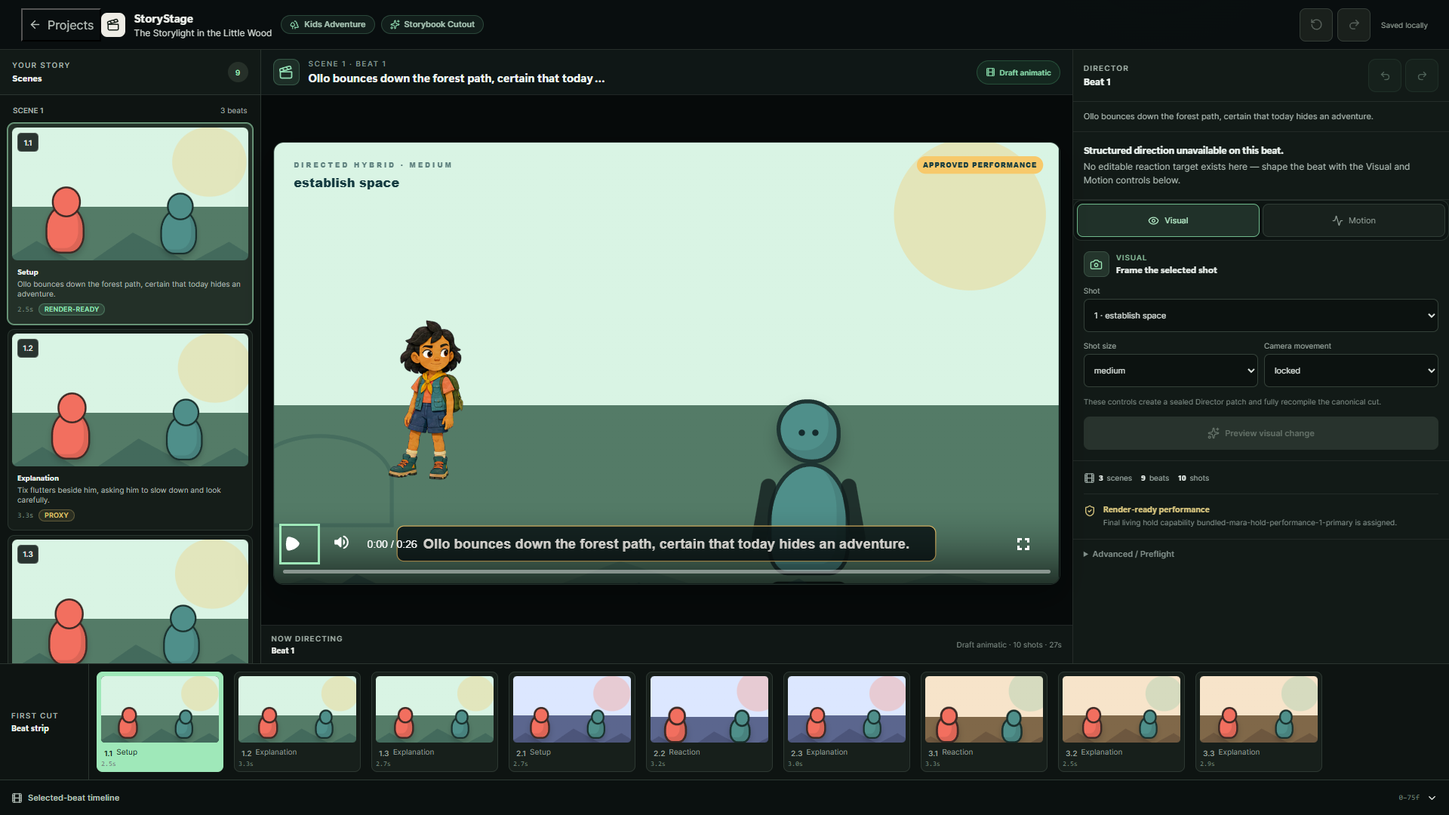
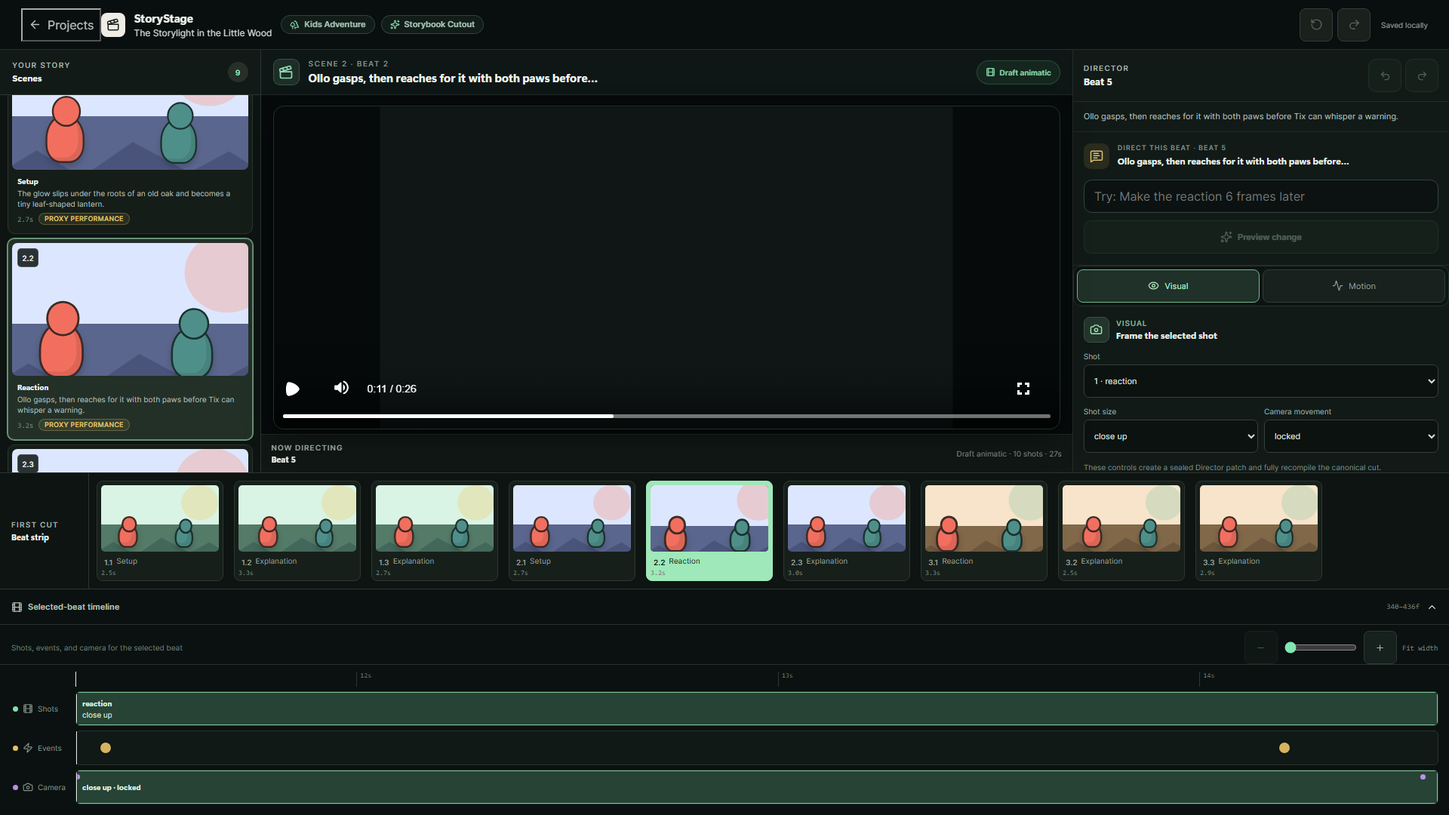
docs: Slice C corrections handback — Mara truth, zoom/player/browser proofs, refreshed screenshots

diff --git a/reports/agent-handoffs/2026-07-19-kimi-ui-slice-c-visual-polish/HANDOFF.md b/reports/agent-handoffs/2026-07-19-kimi-ui-slice-c-visual-polish/HANDOFF.md
@@ -1,85 +1,87 @@
-# [KIMI] UI Slice C handback — Director Studio visual polish
+# [KIMI] UI Slice C handback — Director Studio visual polish + corrections
 
-Task: `KIMI-UI-SLICE-C-VISUAL-POLISH` (inbox v10, START-NOW)
-Work branch: `agent/kimi-ui-slice-c-visual-polish`, from exact accepted integration base `2de764c27640657a97f90eef2c630ff171e9176f` (PR #15 merged into the provider-neutral Ollo lineage)
-Implementation commit: `206ff36`
+Task: `KIMI-UI-SLICE-C-VISUAL-POLISH` → `KIMI-UI-SLICE-C-CORRECTIONS` (inbox v10 → v12, START-NOW)
+Work branch: `agent/kimi-ui-slice-c-visual-polish`, from exact accepted integration base `2de764c27640657a97f90eef2c630ff171e9176f`
+Implementation commits: `206ff36` (Slice C polish), `1daf540` (v11/v12 corrections)
 Visual references: `Generated image 1.png` (Director Studio mockup, primary), `Generated image 2.png` (Create-flow mockup)
 
-## What was polished
+## Slice C (accepted scope) — what was polished
 
-Real-data visual polish of the accepted Director Studio shell only — no new, fake, or implied capability.
+Real-data visual polish of the accepted Director Studio shell: production header with real grammar/art-direction tag pills; scene-rail per-beat resolved durations and honest capability chips; framed dominant Player; pill tabs and mint primary-action hierarchy; beat-strip durations; selected-beat timeline with tools row, zoom, whole-second ruler, colored lane dots; wide-desktop sizing; reduced-motion guards. Details in the original commit `206ff36`.
 
-- **Production header.** Grammar + sealed art-direction tag pills beside the brand (real `project.grammar` / `project.artDirectionSelection.optionId`). Topbar grid extended to a four-zone layout (back / brand / tags / actions) at the direction-screen specificity so nothing wraps or overlaps; tags hide below 1040px.
-- **Scene rail.** Every beat card now carries its real resolved duration (timing solution ÷ fps) and an honest capability chip — `Render-ready` (mint) only when every performance requirement for that beat resolved to a supported executable program, otherwise `Proxy` (amber).
-- **Player.** Framed canvas: border, radius, shadow; 16:9 preserved; native transport untouched.
-- **Director inspector.** Pill-tab treatment for Visual/Motion; mint primary-action hierarchy on the real actions (`Preview change`, `Preview visual change`, `Apply and replay this beat`) with matching focus rings; existing grouping/rhythm retained.
-- **Beat strip.** Real resolved durations under every card; wide-desktop sizing so cards stay readable at 1600/1920.
-- **Selected-beat timeline.** Tools row with a **real zoom control** (visual rescale + horizontal scroll only; never alters timing data), a whole-second ruler computed from the episode fps, colored lane dots (Shots green / Events amber / Camera purple), scrollable lanes. Still collapsed by default; still only real Shots, Events, and Camera data; event markers still seek to resolved frames.
-- **States/responsive/a11y.** Selection/hover/focus/disabled/unavailable treatments kept consistent; no horizontal overflow at 1440/1600/1920 (measured 1440=1440, 1600=1600, 1920=1920); reduced-motion guards added for the new transitions; existing focus-visible rings preserved and extended to the mint actions.
+## Corrections (inbox v11/v12, commit 1daf540)
 
-## Mockup-parity audit
+**P1 — Mara capability truth.** Ordinary Ollo & Friends drafts previously compiled against `createBundledKidsPilotCapabilityRegistry(...)`, whose executable identity is the Mara engineering fixture (`mara-performance-v1`, `mara-run-right-v1`, `bundled-mara-*`) — so "ready" wording was Mara engineering art presented as ordinary Ollo readiness. Ordinary Ollo drafts now compile against the empty `alphaCapabilityRegistry`: **zero `mara-*` asset IDs bind, 0 of N performance requirements resolve supported, everything reports `Proxy performance`** (probed and regression-tested). Mara remains only in the explicit demo surfaces, both now visibly labeled **Engineering demo**: the Cv001 demo badge and the assigned template preview header. No Ollo approval is created or claimed.
 
-**Now matches the mockup:**
+**P1 — truthful timeline zoom.** `minWidth: zoom*100%` could not shrink an auto-width grid, making sub-100% zoom inert. Zoom is now honest zoom-in plus return-to-fit: real lane width (`width`, not `min-width`), minimum 1.0 labeled **Fit width** with minus disabled, maximum 2.5, 44×44 hit targets with small icons retained. Measured browser proof in `browser-proofs.json`: at 100% grid 1440/lane 1326 px not scrollable; at 160% grid 2304/lane 2190 px scrollable; a shots-lane seek lands on its exact resolved frame (title "Seek to reaction, frame 340" → transport 0:11 = frame 330 floor ✓); returns to fit cleanly.
 
-- Compact production header with project tags and saved-state (mockup's "Autosaved"; ours is the honest `Saved locally`).
-- Legible scene rail with useful thumbnails, titles/roles, durations, and per-beat state chips (mockup's Done/Editing/To-do → our honest `Render-ready`/`Proxy`, which is the only state the build actually has).
-- Dominant framed 16:9 Player with clean transport spacing.
-- Calm Director inspector with tab treatment, grouped fields, and a mint primary action (mockup's `Apply direction` → our real `Preview`/`Apply` patch flow).
-- Beat strip with thumbnails, titles, durations, and a selected ring; multi-track selected-beat timeline with colored lane labels, markers, playhead, ruler, and zoom.
+**P2 — assistive metadata.** Rail/strip buttons have explicit `aria-label`s that replace descendant text; names now include the resolved duration and performance-capability wording (`… · 2.5 seconds, Proxy performance`). Focused test added.
 
-**Intentionally differs because the capability is absent (and must stay absent):**
+**P2 — narrow topbar cascade.** Slice C's global four-column topbar rule overrode the 760px two-column layout. Final narrow override added (`grid-template-columns: auto 1fr`, actions pinned right); 740px evidence shows a clean two-row cascade with no horizontal overflow (measured 740=740).
 
-- No `Export` button, no `Preview` render button in the header — no real behavior exists.
-- No Audio/Assets Director tabs, no Voice/SFX timeline lanes, no waveforms — there is no real audio data in this build; the timeline shows only real Shots/Events/Camera.
-- No `Add scene` / `Add beat` buttons — no real add behavior.
-- No `Needs attention: N visuals` pill — no real attention tracking exists; the honest capability chips carry the truthful state instead.
-- Mockup scene art is final-looking illustration; our canvas honestly plays the draft animatic/proxy performance with `Draft animatic` and proxy labels, per the Ollo media/runtime lane being unfinished.
+**Player proof replaced.** The prior one-target screenshot was black at 0:17 (same blank frame exists in Slice B base evidence; the beat-start frame is a dark cut/transition frame). Recaptured after deterministic seek-settle-play-pause: `studio-1440x900-direct-command-one-target.png` is a **nonblank paused frame** with metadata — episode `cc68cfd33d43013e…`, absolute frame 360 (0:12), shot `shot-5-main`, beat `beat-a3f3e65ef08a`, paused=true (see `browser-proofs.json`).
 
-**Remains for the Ollo media/runtime lane:** final character art in Player and thumbnails (currently deterministic proxy/hybrid visuals), true scene statuses (Done/Editing/To-do), Audio/Assets/Export surfaces once real behavior exists, and the pre-existing Kids-route Remotion `image-alt`/`EncodingError` items (Codex's `agent/remotion-kids-image-a11y` lane).
+## Changed files
 
-## Changed files (commit 206ff36)
+Commit `206ff36`: `Cv002DraftReview.tsx` (header tags), `DirectorSceneBeatRail.tsx` (durations/chips), `DirectorTimelineDrawer.tsx` (tools/ruler/dots), `DirectorPreview.tsx` (fps), `cv002-draft-review.css` (polish block), `Cv002DraftReview.test.tsx`.
 
-- `apps/studio/src/Cv002DraftReview.tsx` — header tag pills (real grammar/art-direction data), short-label maps
-- `apps/studio/src/director/DirectorSceneBeatRail.tsx` — real per-beat durations + capability chips (rail), durations (strip)
-- `apps/studio/src/director/DirectorTimelineDrawer.tsx` — tools row + real zoom, fps ruler, lane dots, scroll container; empty ruler spacer keeps lane labels exactly Shots/Events/Camera
-- `apps/studio/src/director/DirectorPreview.tsx` — passes episode fps to the drawer (one line)
-- `apps/studio/src/cv002-draft-review.css` — consolidated Slice C polish block: tags, chips, player frame, tabs, mint actions, timeline visuals, wide-desktop sizing, topbar zone fix at direction-screen specificity, reduced-motion guards
-- `apps/studio/src/Cv002DraftReview.test.tsx` — two timeline queries updated to target the shots lane explicitly (behavior assertions unchanged); no other test changes needed
+Commit `1daf540`:
 
-No engine, runtime, renderer, timing, continuity, eligibility, or asset-authority changes. No Create-flow changes.
+- `apps/studio/src/Cv002DraftReview.tsx` — ordinary Ollo compiles against the empty Alpha registry (Mara registry selection removed); Studio-local, no engine/runtime change
+- `apps/studio/src/Cv001CreatorStudio.tsx` — demo badge reads `Engineering demo`
+- `apps/studio/src/Cv002TemplateAssignmentPanel.tsx` — preview header reads `Engineering demo · real articulated preview`
+- `apps/studio/src/director/DirectorSceneBeatRail.tsx` — chips `Performance ready`/`Proxy performance` + a11y names with duration and capability wording
+- `apps/studio/src/director/DirectorTimelineDrawer.tsx` — honest zoom (1.0 Fit width → 2.5), real width, disabled minus at fit
+- `apps/studio/src/cv002-draft-review.css` — 44px zoom targets, ≤760px topbar cascade
+- `apps/studio/src/Cv002DraftReview.test.tsx` — new regressions: zero Mara bindings + zero ready on ordinary Ollo, a11y names, fit-width zoom geometry, Engineering demo label; updated chip/honesty assertions (Weird History unchanged)
+- `apps/studio/src/Cv001CreatorStudio.test.tsx` — Engineering demo label regression
 
 ## Commands and results
 
-| Command                                                 | Result                                                                                                                                                                                                                                                                                                                                                                                                                                                                                                                                                                                                                                                                                                                                                                                                                                                                                                                                                                                                           |
-| ------------------------------------------------------- | ---------------------------------------------------------------------------------------------------------------------------------------------------------------------------------------------------------------------------------------------------------------------------------------------------------------------------------------------------------------------------------------------------------------------------------------------------------------------------------------------------------------------------------------------------------------------------------------------------------------------------------------------------------------------------------------------------------------------------------------------------------------------------------------------------------------------------------------------------------------------------------------------------------------------------------------------------------------------------------------------------------------- |
-| `corepack pnpm --filter @storystage/studio test`        | **82/82 passed (7 files)**                                                                                                                                                                                                                                                                                                                                                                                                                                                                                                                                                                                                                                                                                                                                                                                                                                                                                                                                                                                       |
-| `corepack pnpm --filter @storystage/studio typecheck`   | clean                                                                                                                                                                                                                                                                                                                                                                                                                                                                                                                                                                                                                                                                                                                                                                                                                                                                                                                                                                                                            |
-| `corepack pnpm exec eslint apps/studio`                 | clean                                                                                                                                                                                                                                                                                                                                                                                                                                                                                                                                                                                                                                                                                                                                                                                                                                                                                                                                                                                                            |
-| `prettier --check` (touched files) / `git diff --check` | clean                                                                                                                                                                                                                                                                                                                                                                                                                                                                                                                                                                                                                                                                                                                                                                                                                                                                                                                                                                                                            |
-| `pnpm verify` (repository root, at `206ff36`)           | **all green except one environmental timeout** — 19 capability assets verified; privacy 580 files passed; `eslint .` 0 errors; typecheck clean across 10 projects; tests: story-engine 254/254, studio 82/82, remotion-runtime 20/20, asset-pipeline 54/54, contracts 11/11, fixtures 2/2, orchestration 4/4, asset-worker 3/3, render-worker 15/15, desktop 10/11. The single failure is `apps/desktop delivery-store.test.ts > recovers cleanly from every publication checkpoint` timing out at ~5.1–5.3 s vs the 5000 ms limit **under recursive parallel load on this machine** — it passes isolated in **1669 ms**, and the branch touches zero files outside `apps/studio` (working-tree status at commit: 6 studio files only), so the failure cannot be caused by this slice. Fifth sighting of this load-sensitive test across lanes (Codex saw an asset-pipeline sibling and reserved a flake/remediation lane). Left untouched per Codex guidance; recommend Codex promote the isolation/flake lane. |
+| Command                                                 | Result                                                                                                                                                                                                                                                                                                                                                                                                                                                                                                                                           |
+| ------------------------------------------------------- | ------------------------------------------------------------------------------------------------------------------------------------------------------------------------------------------------------------------------------------------------------------------------------------------------------------------------------------------------------------------------------------------------------------------------------------------------------------------------------------------------------------------------------------------------ |
+| `corepack pnpm --filter @storystage/studio test`        | **86/86 passed (7 files)**                                                                                                                                                                                                                                                                                                                                                                                                                                                                                                                       |
+| `corepack pnpm --filter @storystage/studio typecheck`   | clean                                                                                                                                                                                                                                                                                                                                                                                                                                                                                                                                            |
+| `corepack pnpm exec eslint apps/studio`                 | clean                                                                                                                                                                                                                                                                                                                                                                                                                                                                                                                                            |
+| `prettier --check` (touched files) / `git diff --check` | clean                                                                                                                                                                                                                                                                                                                                                                                                                                                                                                                                            |
+| `pnpm verify` (repository root, at `1daf540`)           | **exit 0, fully green** — 19 capability assets verified; privacy 580 files passed; `eslint .` 0 errors; typecheck clean across 10 projects; all tests green: story-engine 254/254, studio 86/86, desktop 11/11 (the load-sensitive delivery-store timeout did not recur on this run), remotion-runtime 20/20, asset-pipeline 54/54, contracts 11/11, fixtures 2/2, orchestration 4/4, asset-worker 3/3, render-worker 15/15. (Six prior sightings of that parallel-load timeout across lanes remain flagged for Codex's flake/remediation lane.) |
 
-Note: bare `pnpm` is not on this machine's PATH; root commands ran through corepack shims pinned to the repo's `pnpm@11.9.0`.
+## Browser proofs (`browser-proofs.json`)
+
+- **Zoom geometry:** 100% → grid 1440 / lane 1326 px, `Fit width`, minus disabled, not scrollable; 160% → grid 2304 / lane 2190 px, scrollable; seek to `reaction, frame 340` exact; back to fit.
[1 lines of base64/hex data omitted]
+- **Responsive:** 820×900 and 740×900 measured overflow-free (sw=iw); 740 topbar renders the two-column cascade (2 rows).
 
 ## Screenshots (this directory, actual app)
 
-- `studio-1440x900-setup-beat-no-target.png` — required: setup/no-target beat selected; honest unavailable note; header tags; rail chips
-- `studio-1440x900-direct-command-one-target.png` — required: exactly-one-target beat (3.1) with the real `Direct this beat` command visible
-- `studio-1920x1080-full-hierarchy.png` — required: complete Player/Director/beat-strip/timeline hierarchy at 1920
-- `studio-1440x900-timeline-drawer-open.png` — bonus: ruler, lane dots, real zoom control, Shots/Events/Camera lanes
+- `studio-1440x900-setup-beat-no-target.png` — 0-target beat, honest unavailable note, `PROXY PERFORMANCE` chips
+- `studio-1440x900-direct-command-one-target.png` — exactly-one-target beat (2.2), real `Direct this beat` command, nonblank paused proxy frame
+- `studio-1920x1080-full-hierarchy.png` — full Player/Director/beat-strip/timeline hierarchy at 1920, drawer open with ruler + zoom + lanes
+- `studio-820x900-stacked.png` — narrow stacked layout
+- `studio-740x900-narrow-topbar.png` — ≤760px two-row topbar cascade
+- `engineering-demo-mara-labeled-1440x900.png` — Mara confined to the visibly labeled Engineering demo surface
+
+## Mockup-parity audit (updated post-correction)
+
+**Matches:** compact production header with real tags; legible rail with thumbnails, durations, capability chips; dominant framed 16:9 Player; calm Director inspector with mint primary action; beat strip with durations; multi-track selected-beat timeline with labels, markers, ruler, working zoom.
+
+**Intentionally differs (capability absent):** no Export/Preview-render buttons, no Audio/Assets tabs, no Voice/SFX lanes or waveforms, no Add scene/beat, no attention pill, no target picker. Ordinary Ollo currently plays **proxy** visuals everywhere and says so (`Draft animatic`, `PROXY ANIMATIC`, `Proxy performance`) — there is no approved Ollo performance capability yet, and this slice does not claim one. Mara art appears only inside the explicitly labeled Engineering demo surfaces.
+
+**Remains for the Ollo media/runtime lane:** approved Ollo capability + final media; when an approved Ollo capability exists, `Performance ready` lights up with no further UI change needed. The Kids-route Remotion `image-alt`/`EncodingError` items are handled in Codex's `agent/remotion-kids-image-a11y` lane (PR #13).
 
 ## Control honesty statement
 
-- **Real:** header tags (display), undo/redo, step tabs, scene-rail and strip selection with exact seek, rail durations + capability chips (display), Player and its native transport, Visual/Motion patch controls, command control on exactly-one-target beats, undo/redo hashes, timeline drawer (zoom, ruler, seek markers, playhead).
-- **Honestly unavailable with reason:** structured command on 0- and 2+-candidate beats (distinct truthful copy); zoom minus/plus at range ends; Preview/Apply actions until a change exists; voice/format selects on Create.
-- **Omitted (capability absent):** Export, Preview-render, Audio/Assets tabs, Voice/SFX lanes, waveforms, trim, keyframes, Add scene/beat, attention pill, target picker for ambiguous beats.
+- **Real:** header tags, undo/redo, step tabs, rail/strip selection with exact seek, durations + `Proxy performance` chips, Player + native transport, Visual/Motion patch controls, command control on exactly-one-target beats, undo/redo hashes, timeline drawer (Fit-width/2.5 zoom, ruler, seek markers, playhead), Engineering demo surfaces (Cv001 demo, verified template preview).
+- **Honestly unavailable with reason:** structured command on 0- and 2+-candidate beats; zoom minus at Fit width; Preview/Apply until a change exists.
+- **Omitted (capability absent):** Export, Audio/Assets, waveforms, trim, keyframes, Add scene/beat, attention pill, target picker, any Ollo-readiness claim.
 
 ## Known limitations
 
-1. The environmental desktop delivery-store parallel-load timeout documented above (not caused by this branch; proven isolated-pass; flagged for Codex's flake lane).
-2. Mockup-final media remains proxy/hybrid until the Ollo rig/runtime lane lands; thumbnails are deterministic proxy approximations and are labeled as such.
-3. The zoom control is visual-only by design (rescales lanes with horizontal scroll); it does not change which frames are shown.
-4. The 2+ ambiguous command state has no browser screenshot (no sample script compiles such a beat); it remains covered by the focused Studio regression and the engine ambiguity fixture from PR #12/#15 lineage.
+1. **Duration derivation assumes one beat per shot.** The rail/strip durations sum resolved shot intervals per beat ID, which is exact while Director Alpha emits one beat ID per shot. The generic schema permits shared-beat shots; a future compiler that shares shots across beats needs a genuine interval-union calculation. No engine change was made in this slice.
+2. The environmental desktop delivery-store parallel-load timeout documented above (not caused by this branch; proven isolated-pass; flagged for Codex's flake lane).
+3. Beat-start frames for mid-episode reaction beats are dark cut/transition frames; the required one-target evidence uses a deterministic paused in-beat frame (metadata above) instead of pretending the start frame is representative.
+4. The 2+ ambiguous command state remains covered by tests/engine fixture only (no sample script compiles such a beat).
 
 ## Integration instructions
 
-Branch is two commits on top of `2de764c` (implementation `206ff36` + this handback). Draft PR targets `agent/kcast001-provider-neutral-rig`. Do not merge — Codex and Pro review the immutable head. After integration, `corepack pnpm --filter @storystage/studio test` should remain 82/82.
+Branch is `206ff36` + `1daf540` + this handback on top of `2de764c`. Draft PR #17 targets `agent/kcast001-provider-neutral-rig`. Do not merge — Codex and Pro review the immutable head. After integration, `corepack pnpm --filter @storystage/studio test` should remain 86/86.
